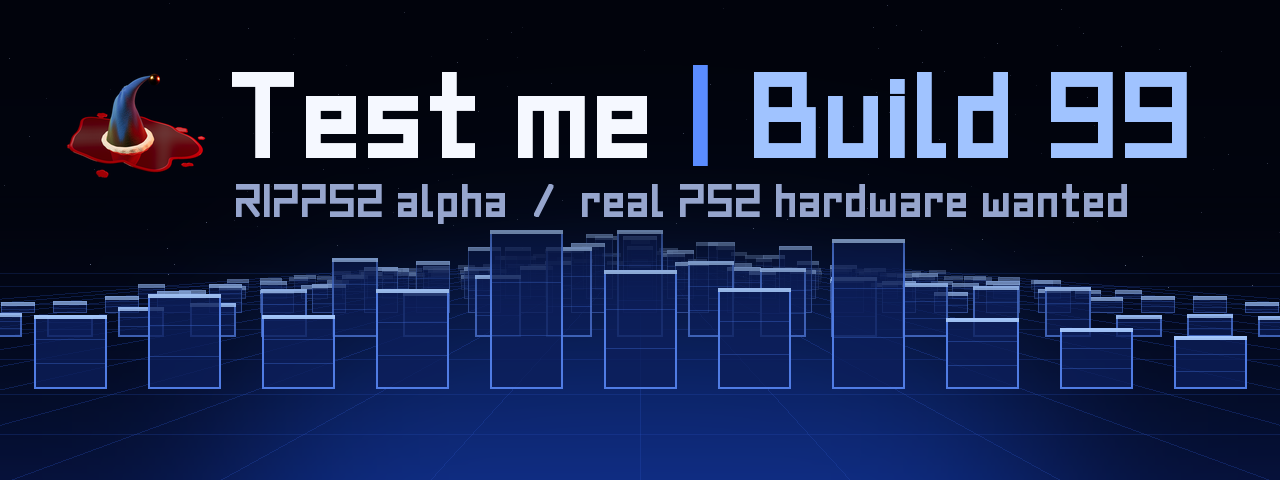
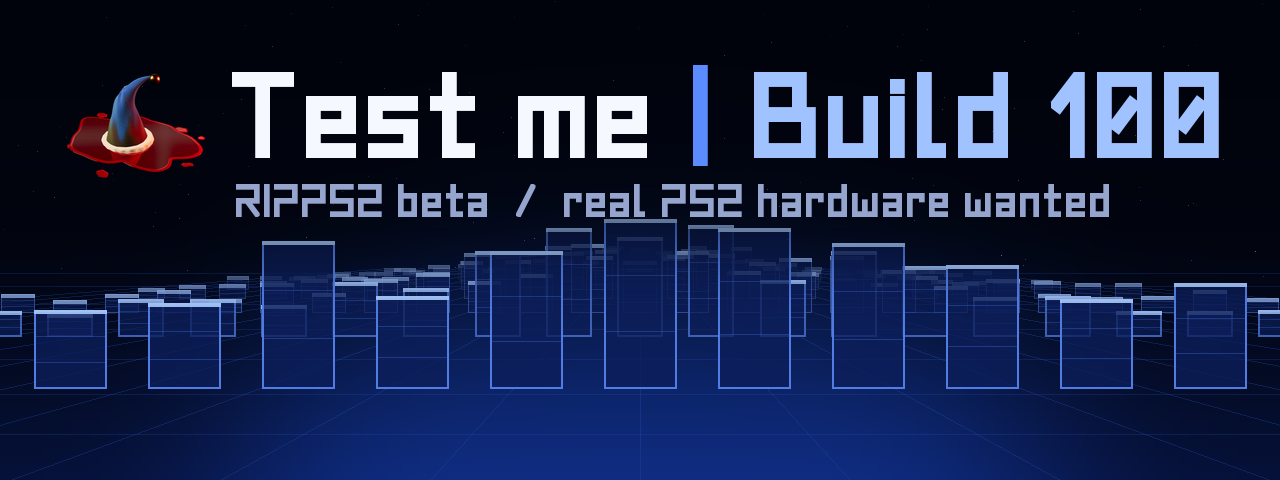
The beta's psx-place thread: README, the site's blue hat, the build 100 Discord notes
- README: the thread beside Every release and first in Tell us how it went; the
  Test me banner reads Build 100, RIPPS2 beta.
- Site: the RIPPS2 hat on the elf shelf is now a link to the thread. Pointed at
  or focused, it rings its bell as RIPPS2's memory card icon does in the PS2
  browser (make_hat_icon.py's keys, a 1.5 s loop) and the caption reads RIPPS2
  beta on psx-place.
- make_test_embed.py: the banner and footer say beta from build 100.
- notes/build100.md: the build 100 post; psxplace100.txt records the thread.

diff --git a/elfshelf.js b/elfshelf.js
@@ -4,9 +4,13 @@
 // middle one turns to follow the pointer (the nearer the pointer, the quicker it turns), and a touch on
 // either neighbour, or Left / Right, brings that one to the middle.
 //
+// One hat is a link (the `link` element, its data-hat naming which): while it stands in the middle the link
+// lies over it, and pointing at it (or focusing it) rings the bell as RIPPS2's memory card icon does in the
+// PS2 browser (make_hat_icon.py's keys: four rings dying away, then rest, a 1.5 s loop).
+//
 // Usage:
 //   import { createElfShelf } from "./elfshelf.js";
-//   const shelf = createElfShelf(canvas, { interactTarget: heroEl, caption: captionEl });
+//   const shelf = createElfShelf(canvas, { interactTarget: heroEl, caption: captionEl, link: anchorEl });
 //   shelf.show(true | false);  shelf.destroy();
 
 import * as THREE from "three";
@@ -25,7 +29,19 @@ const SLOT_X = 4.1;       // world units between the shelf's three places
 const SIDE_SCALE = 0.78;  // the neighbours stand a little smaller, as RIPFLOW's side covers do
 const SLIDE_S = 0.55;     // a step along the shelf
 
-export function createElfShelf(canvas, { interactTarget = canvas, caption = null } = {}) {
+// the memory card icon's ring, in the icon's frames (60 a second): the curl swings about the hat's own axis,
+// more toward the tip, by RING_SWING radians at full weight; the bell swings a little past the felt holding it
+const RING_KEYS = [[0, 0], [6, 1], [12, 0], [18, -1], [24, 0], [30, 0.6], [36, 0], [42, -0.35], [48, 0], [90, 0]];
+const RING_REST = 48, RING_LOOP = 90, RING_SWING = 0.75, BELL_SWING = Math.pow(1.3, 1.3);
+function ringAt(f) {
+  for (let i = 1; i < RING_KEYS.length; i++) {
+    const [t1, v1] = RING_KEYS[i];
+    if (f <= t1) { const [t0, v0] = RING_KEYS[i - 1], u = (f - t0) / (t1 - t0); return v0 + (v1 - v0) * u * u * (3 - 2 * u); }
+  }
+  return 0;
+}
+
+export function createElfShelf(canvas, { interactTarget = canvas, caption = null, link = null } = {}) {
   const renderer = new THREE.WebGLRenderer({ canvas, antialias: true, alpha: true });
   renderer.setPixelRatio(Math.min(window.devicePixelRatio || 1, 1.75));
   renderer.toneMapping = THREE.ACESFilmicToneMapping;
@@ -135,18 +151,23 @@ export function createElfShelf(canvas, { interactTarget = canvas, caption = null
   })();
 
   // the felt's flop as a vertex-shader bend about (R, uBendY): above uBendY the cone curls toward +x by
-  // uBend radians over its length, normals turned with it
+  // uBend radians over its length, normals turned with it; then the curl swings about the hat's axis by
+  // uSwing radians at the tip (the icon's ring), less toward the bend
   function bendFelt(mat, u) {
     mat.onBeforeCompile = (sh) => {
       Object.assign(sh.uniforms, u);
       sh.vertexShader = sh.vertexShader
-        .replace("#include <common>", "#include <common>\nuniform float uBend, uBendY, uLen;")
+        .replace("#include <common>", "#include <common>\nuniform float uBend, uBendY, uLen, uSwing;")
         .replace("#include <beginnormal_vertex>", `#include <beginnormal_vertex>
           if (position.y > uBendY) { float bR = (uLen - uBendY) / max(0.05, uBend); float th = (position.y - uBendY) / bR;
-            float c = cos(th), s = sin(th); objectNormal = vec3(c * objectNormal.x - s * objectNormal.y, s * objectNormal.x + c * objectNormal.y, objectNormal.z); }`)
+            float c = cos(th), s = sin(th); objectNormal = vec3(c * objectNormal.x - s * objectNormal.y, s * objectNormal.x + c * objectNormal.y, objectNormal.z);
+            float sw = uSwing * pow((position.y - uBendY) / (uLen - uBendY), 1.3); float cw = cos(sw), sn = sin(sw);
+            objectNormal = vec3(cw * objectNormal.x - sn * objectNormal.z, objectNormal.y, sn * objectNormal.x + cw * objectNormal.z); }`)
         .replace("#include <begin_vertex>", `#include <begin_vertex>
           if (position.y > uBendY) { float bR = (uLen - uBendY) / max(0.05, uBend); float th = (position.y - uBendY) / bR; float r = bR - position.x;
-            transformed.x = bR - r * cos(th); transformed.y = uBendY + r * sin(th); }`);
+            transformed.x = bR - r * cos(th); transformed.y = uBendY + r * sin(th);
+            float sw = uSwing * pow((position.y - uBendY) / (uLen - uBendY), 1.3); float cw = cos(sw), sn = sin(sw);
+            transformed.xz = vec2(cw * transformed.x - sn * transformed.z, sn * transformed.x + cw * transformed.z); }`);
     };
   }
 
@@ -182,7 +203,7 @@ export function createElfShelf(canvas, { interactTarget = canvas, caption = null
       p.setXYZ(i, v.x, v.y, v.z);
     }
     geo.computeVertexNormals();
-    const bendU = { uBend: { value: def.bend }, uBendY: { value: BEND_Y }, uLen: { value: L } };
+    const bendU = { uBend: { value: def.bend }, uBendY: { value: BEND_Y }, uLen: { value: L }, uSwing: { value: 0 } };
     const hat = new THREE.Group();
     const felt = new THREE.MeshPhysicalMaterial({ shadowSide: THREE.FrontSide, map: feltMap, bumpMap: feltBump, bumpScale: 0.5, roughness: 0.92, sheen: 0.6, sheenRoughness: 0.7,
       sheenColor: new THREE.Color(def.sheen), side: THREE.DoubleSide, envMap: env, envMapIntensity: 0.4 });
@@ -195,11 +216,29 @@ export function createElfShelf(canvas, { interactTarget = canvas, caption = null
     fur.rotation.x = Math.PI / 2; fur.position.y = 0.05; fur.castShadow = true; hat.add(fur);
     const bell = new THREE.Mesh(new THREE.SphereGeometry(0.15, 32, 20), bellMat);
     bell.castShadow = true; hat.add(bell);
-    const placeBell = (a) => { // at the bent tip, wherever the spring has the felt
-      const R = (L - BEND_Y) / Math.max(0.05, a);
-      bell.position.set(R - R * Math.cos(a) + 0.04, BEND_Y + R * Math.sin(a) - 0.1, 0);
+    const placeBell = (a, sw = 0) => { // at the bent tip, wherever the spring (and the ring) has the felt
+      const R = (L - BEND_Y) / Math.max(0.05, a), x = R - R * Math.cos(a) + 0.04, b = sw * BELL_SWING;
+      bell.position.set(x * Math.cos(b), BEND_Y + R * Math.sin(a) - 0.1, x * Math.sin(b));
     };
     placeBell(def.bend);
+    // the hat's outline in its own space, for the link laid over it: brim, bend, the curl and the bell
+    const rim = [], curl = [], marks = [];
+    for (let j = 0; j < 8; j++) { const a = (j / 8) * Math.PI * 2;
+      rim.push(new THREE.Vector3(Math.cos(a) * 0.8, -0.05, Math.sin(a) * 0.8), new THREE.Vector3(Math.cos(a) * 0.8, 0.22, Math.sin(a) * 0.8),
+        new THREE.Vector3(Math.cos(a) * 0.45, BEND_Y, Math.sin(a) * 0.45)); }
+    for (let j = 0; j < 16; j++) curl.push(new THREE.Vector3());
+    const outline = (a, sw) => {
+      const R = (L - BEND_Y) / Math.max(0.05, a);
+      for (let j = 0; j < 4; j++) {
+        const th = a * (j + 1) / 4, k = Math.pow((j + 1) / 4, 1.3) * sw, cx = R - R * Math.cos(th), cy = BEND_Y + R * Math.sin(th);
+        for (let q = 0; q < 4; q++) {
+          const x = cx + (q & 1 ? 0.3 : -0.3), z = q & 2 ? 0.3 : -0.3;
+          curl[j * 4 + q].set(x * Math.cos(k) - z * Math.sin(k), cy + (q & 2 ? 0.3 : -0.3), x * Math.sin(k) + z * Math.cos(k));
+        }
+      }
+      marks.length = 0; marks.push(...rim, ...curl, bell.position);
+      return marks;
+    };
 
     // the hat stands in its own pool, sunk to half the fur; the pool keeps still while the hat turns
     const holder = new THREE.Group();
@@ -217,7 +256,7 @@ export function createElfShelf(canvas, { interactTarget = canvas, caption = null
     }
     holder.add(spin);
     // the bell's spring: bend (rad) and its speed
-    holder.userData = { spin, hat, yaw: 0, bendU, placeBell, base: def.bend, bend: def.bend, bendV: 0 };
+    holder.userData = { spin, hat, yaw: 0, bendU, placeBell, outline, base: def.bend, bend: def.bend, bendV: 0 };
     holder.traverse((o) => { if (o.isMesh) o.userData.holder = holder; });
     return holder;
   }
@@ -242,10 +281,51 @@ export function createElfShelf(canvas, { interactTarget = canvas, caption = null
   function step(dir) { target += dir; if (caption) setCaption(); }
   function setCaption() {
     const k = ((Math.round(target) % n) + n) % n;
-    caption.textContent = HATS[k].name;
+    sayCaption(HATS[k].name);
+  }
+  function sayCaption(text) {
+    caption.textContent = text;
     caption.animate([{ opacity: 0, transform: "translateY(6px)" }, { opacity: 1, transform: "none" }], { duration: 380, easing: "cubic-bezier(.2,.7,.3,1)" });
   }
   if (caption) setCaption();
+
+  // ---- the linked hat: pointed at or focused, it rings; a ring always plays out to its rest ----
+  const linkIdx = link ? HATS.findIndex((h) => h.name === (link.dataset.hat || "RIPPS2")) : -1;
+  let linkOn = false, ringHover = false, ringF = RING_REST;
+  const ringStart = () => {
+    if (!ringHover && ringF >= RING_REST) ringF = 0;
+    if (!ringHover && caption && link.dataset.caption) sayCaption(link.dataset.caption);
+    ringHover = true;
+  };
+  const ringStop = () => { if (ringHover && caption) setCaption(); ringHover = false; };
+  if (linkIdx >= 0) {
+    link.style.display = "none";
+    link.addEventListener("pointerenter", ringStart);
+    link.addEventListener("pointerleave", ringStop);
+    link.addEventListener("focus", ringStart);
+    link.addEventListener("blur", ringStop);
+  }
+  const lp = new THREE.Vector3();
+  function placeLink() {
+    const h = hats[linkIdx], on = visible && Math.abs(wrap(linkIdx - pos)) < 0.3;
+    if (on !== linkOn) {
+      linkOn = on;
+      link.style.display = on ? "block" : "none";
+      if (!on) { if (document.activeElement === link) link.blur(); ringStop(); }
+    }
+    if (!on) return;
+    h.updateMatrixWorld(true);
+    let x0 = Infinity, y0 = Infinity, x1 = -Infinity, y1 = -Infinity;
+    for (const p of h.userData.outline(h.userData.bend, h.userData.bendU.uSwing.value)) {
+      lp.copy(p); h.userData.hat.localToWorld(lp).project(camera);
+      x0 = Math.min(x0, lp.x); x1 = Math.max(x1, lp.x); y0 = Math.min(y0, lp.y); y1 = Math.max(y1, lp.y);
+    }
+    const w = canvas.clientWidth, ht = canvas.clientHeight;
+    const left = (x0 + 1) / 2 * w, top = (1 - y1) / 2 * ht;
+    link.style.transform = `translate(${left.toFixed(1)}px, ${top.toFixed(1)}px)`;
+    link.style.width = ((x1 - x0) / 2 * w).toFixed(1) + "px";
+    link.style.height = ((y1 - y0) / 2 * ht).toFixed(1) + "px";
+  }
 
   // ---- pointer ----
   const pointer = new THREE.Vector2(0, 0);
@@ -259,6 +339,7 @@ export function createElfShelf(canvas, { interactTarget = canvas, caption = null
   const onLeave = () => { pointerIn = false; };
   const onDown = (e) => {
     if (!visible) return;
+    if (linkOn && e.target === link) { e.stopImmediatePropagation(); hats[linkIdx].userData.bendV -= 4.5; return; } // the link opens on click
     toNdc(e);
     ray.setFromCamera(pointer, camera);
     const hit = ray.intersectObjects(hats, true)[0];
@@ -310,6 +391,8 @@ export function createElfShelf(canvas, { interactTarget = canvas, caption = null
     const dt = Math.min(0.05, (now - last) / 1000); last = now;
     const t = now / 1000;
     pos += (target - pos) * (1 - Math.exp(-dt / (SLIDE_S / 4)));
+    if (ringHover) ringF = (ringF + dt * 60) % RING_LOOP;
+    else if (ringF < RING_REST) ringF = Math.min(RING_REST, ringF + dt * 60);
 
     hats.forEach((h, k) => {
       const off = wrap(k - pos), a = Math.abs(off);
@@ -339,9 +422,12 @@ export function createElfShelf(canvas, { interactTarget = canvas, caption = null
       ud.bendV += (-(ud.bend - ud.bendGoal) * 42 - ud.bendV * 5.5 + Math.abs(yawV) * 0.9) * dt;
       ud.bend = Math.max(0.15, Math.min(2.4, ud.bend + ud.bendV * dt));
       ud.bendU.uBend.value = ud.bend;
-      ud.placeBell(ud.bend);
+      const sw = k === linkIdx ? RING_SWING * ringAt(ringF) : 0;
+      ud.bendU.uSwing.value = sw;
+      ud.placeBell(ud.bend, sw);
       ud.spin.rotation.y = ud.yaw;
     });
+    if (linkIdx >= 0) placeLink();
     if (visible) renderer.render(scene, camera);
   }
   raf = requestAnimationFrame(frame);
@@ -359,6 +445,10 @@ export function createElfShelf(canvas, { interactTarget = canvas, caption = null
       interactTarget.removeEventListener("pointerleave", onLeave);
       interactTarget.removeEventListener("pointerdown", onDown, { capture: true });
       window.removeEventListener("keydown", onKey);
+      if (linkIdx >= 0) {
+        link.removeEventListener("pointerenter", ringStart); link.removeEventListener("pointerleave", ringStop);
+        link.removeEventListener("focus", ringStart); link.removeEventListener("blur", ringStop);
+      }
       renderer.dispose();
     },
   };

diff --git a/index.html b/index.html
@@ -43,6 +43,10 @@
     font-size: clamp(1rem, 2.4vw, 1.7rem); color: #f4f8ff; opacity: 0; transition: opacity .5s ease;
     text-shadow: 0 0 6px rgba(200, 222, 255, .8), 0 0 22px rgba(110, 160, 255, .6); }
   .shelf-caption[data-shelf="on"] { opacity: 1; }
+  /* The blue RIPPS2 hat is a link to the beta's psx-place thread: elfshelf.js lays it over the hat */
+  .shelf-link { position: absolute; left: 0; top: 0; z-index: 2; display: none; cursor: pointer; border-radius: 18px;
+    outline: none; -webkit-tap-highlight-color: transparent; }
+  .shelf-link:focus-visible { box-shadow: 0 0 0 2px rgba(170, 205, 255, .75), 0 0 26px rgba(110, 160, 255, .45); }
   .hero[data-tab="storage"] .console { opacity: 0; transition: opacity .5s ease; }
   .hero[data-tab="launch"] .console { opacity: 1; transition: opacity .5s ease; }
 
@@ -64,8 +68,11 @@
 
 <section class="hero" id="hero">
   <canvas id="pillars" aria-hidden="true"></canvas>
-  <canvas class="shelf" id="shelf" aria-label="The elf shelf: touch a hat beside the middle one, or press Left / Right"></canvas>
+  <canvas class="shelf" id="shelf" aria-label="The elf shelf: touch a hat beside the middle one, or press Left / Right; the blue RIPPS2 hat opens the beta's psx-place thread"></canvas>
   <div class="shelf-caption" id="shelf-caption" aria-live="polite"></div>
+  <a class="shelf-link" id="shelf-link" href="https://www.psx-place.com/threads/ripps2-a-ps2-front-end-in-one-elf-launch-disc-storage-memory-files.51316/"
+     target="_blank" rel="noopener" data-hat="RIPPS2" data-caption="RIPPS2 beta on psx-place"
+     aria-label="RIPPS2 beta: the psx-place thread"></a>
   <div class="hero-content">
     <img class="console" src="assets/console.png" alt="Console" onerror="this.remove()">
   </div>
@@ -108,7 +115,8 @@
   if (arrived === "launch") spark();
 
   try {
-    shelf = createElfShelf(document.getElementById("shelf"), { interactTarget: hero, caption: document.getElementById("shelf-caption") });
+    shelf = createElfShelf(document.getElementById("shelf"), { interactTarget: hero, caption: document.getElementById("shelf-caption"),
+      link: document.getElementById("shelf-link") });
   } catch (e) { console.warn("elf shelf:", e); }
   showTab(arrived === "launch" ? "launch" : current);
 

diff --git a/tools/discord/make_test_embed.py b/tools/discord/make_test_embed.py
@@ -133,8 +133,13 @@ def banner(build, w=1280, h=480):
     tw = d.textlength(title, font=big)
     d.text((232 + tw + 34, 58), '|', font=big, fill=(90, 140, 255))
     d.text((232 + tw + 34 + d.textlength('|', font=big) + 34, 58), 'Build %d' % build, font=big, fill=(160, 195, 255))
-    d.text((236, 178), 'RIPPS2 alpha  /  real PS2 hardware wanted', font=small, fill=(150, 165, 205))
+    d.text((236, 178), 'RIPPS2 %s  /  real PS2 hardware wanted' % stage(build), font=small, fill=(150, 165, 205))
     return im.convert('RGB')
+
+
+def stage(build):
+    """Alpha up to build 99; build 100 (v0.1.0) is the first beta."""
+    return 'beta' if build >= 100 else 'alpha'
 
 
 def parse_notes(path):
@@ -187,7 +192,7 @@ def payload(build, notes, release, videos=()):
         body['fields'].append({'name': 'What to test on your PS2' + (' (%d to %d)' % (start, n - 1) if start > 1 else ''), 'value': chunk, 'inline': False})
     if report:
         body['fields'].append({'name': 'Tell us', 'value': report[:1024], 'inline': False})
-    body['footer'] = {'text': 'RIPPS2 build %d  |  alpha: keep your usual loader close by' % build, 'icon_url': 'attachment://ripps2-icon.png'}
+    body['footer'] = {'text': 'RIPPS2 build %d  |  %s: keep your usual loader close by' % (build, stage(build)), 'icon_url': 'attachment://ripps2-icon.png'}
     # videos go in the message text, where Discord turns each link into a player above the card
     content = '**Watch build %d:** ' % build + '  |  '.join(videos) if videos else ''
     return {'content': content, 'embeds': [head, body], 'allowed_mentions': {'parse': []},

diff --git a/README.md b/README.md
@@ -1,4 +1,4 @@
-<p align="center"><img src="media/ripps2-test-me.png" alt="RIPPS2: Test me, build 99, the dead elf in its blue hat over the towers"></p>
+<p align="center"><img src="media/ripps2-test-me.png" alt="RIPPS2: Test me, build 100, the beta, the dead elf in its blue hat over the towers"></p>
 
 # RIPPS2
 
@@ -6,9 +6,9 @@
 > **RIP PS2, the ELF killer.** ELF-sufficient, never ELF-destructive: your other ELFs stay safe on the [shelf](https://akilluminati47.github.io/RIPPS2/) (nothing is deleted unless you ask), they just get a well-earned rest.
 > 1. **[Download RIPPS2.elf](https://github.com/akilluminati47/RIPPS2/releases/latest/download/RIPPS2.elf)** (always the newest release) (one file, about 3 MB), and the **[theme pack](https://github.com/akilluminati47/RIPPS2-themes/releases/latest)** if you like (Adapt, Adapt Rx; RIPGRID and RIPFLOW are built in).
 > 2. Copy it to a USB stick or memory card, and launch it from FreeMcBoot, PS2BBL, wLaunchELF or whatever you already use to start homebrew. In PCSX2: **System > Start File** and pick `RIPPS2.elf`.
-> 3. Tell us how it went: [open an issue](https://github.com/akilluminati47/RIPPS2/issues) or find **#RIPPS2** on the developers' Discord, [discord.gg/ggkCDWqhE](https://discord.gg/ggkCDWqhE) (invite good for October 2026).
+> 3. Tell us how it went: [the psx-place thread](https://www.psx-place.com/threads/ripps2-a-ps2-front-end-in-one-elf-launch-disc-storage-memory-files.51316/), [an issue](https://github.com/akilluminati47/RIPPS2/issues), or **#RIPPS2** on the developers' Discord, [discord.gg/ggkCDWqhE](https://discord.gg/ggkCDWqhE) (invite good for October 2026).
 >
-> [What's new in build 100](https://github.com/akilluminati47/RIPPS2/releases/tag/v0.1.0-beta) | [Changelog](CHANGELOG.md) | **[Watch the beta reel](https://youtu.be/LPjdK_E1jjM)** (9:45, every chapter in its description; earlier: [the build 99 Short](https://www.youtube.com/shorts/Ov5iA-tMcI8), [build 88's](https://www.youtube.com/shorts/Sqprz22tdtg), [the build 83 reel](https://youtu.be/A27N9s6tumk) and [its Short](https://youtube.com/shorts/4QBe5UO2KxM)) | [Every release](https://github.com/akilluminati47/RIPPS2/releases)<br>
+> [What's new in build 100](https://github.com/akilluminati47/RIPPS2/releases/tag/v0.1.0-beta) | [Changelog](CHANGELOG.md) | **[Watch the beta reel](https://youtu.be/LPjdK_E1jjM)** (9:45, every chapter in its description; earlier: [the build 99 Short](https://www.youtube.com/shorts/Ov5iA-tMcI8), [build 88's](https://www.youtube.com/shorts/Sqprz22tdtg), [the build 83 reel](https://youtu.be/A27N9s6tumk) and [its Short](https://youtube.com/shorts/4QBe5UO2KxM)) | [Every release](https://github.com/akilluminati47/RIPPS2/releases) | [Talk about it on psx-place](https://www.psx-place.com/threads/ripps2-a-ps2-front-end-in-one-elf-launch-disc-storage-memory-files.51316/)<br>
 > [Theme RIPPS2](https://github.com/akilluminati47/RIPPS2-themes) (no rebuild, agent friendly) | [Fill your AUDIO folder](#the-sound-ripps2-was-made-with) with RIPPS2 Audio Studio
 
 RIPPS2 is a PS2 front end in a single `.elf`: a teardown and rebuild of [RiptOPL](https://github.com/NathanNeurotic/Open-PS2-Loader) (the Open PS2 Loader fork) with its own look, launchers, file browser and save tools. Glass towers stand behind your games and orbit formations behind your files, all drawn live by the PS2.

diff --git a/tools/discord/notes/build100.md b/tools/discord/notes/build100.md
@@ -1,0 +1,29 @@
+# Build 100 is the first beta: RIPPS2 v0.1.0. Clean sound from your own console, the menu music ripped on its own, and RIPPS2's own memory card save. The beta reel and a psx-place thread are up.
+
+## Watch and talk
+- **[The beta reel](https://youtu.be/LPjdK_E1jjM)** (9:45, every chapter in the description)
+- **[The psx-place thread](https://www.psx-place.com/threads/ripps2-a-ps2-front-end-in-one-elf-launch-disc-storage-memory-files.51316/)**: RIPPS2 goes public there
+- [Download the latest RIPPS2.elf](https://github.com/akilluminati47/RIPPS2/releases/latest/download/RIPPS2.elf) (this link always gets the newest build) and [the theme pack](https://github.com/akilluminati47/RIPPS2-themes/releases/latest/download/RIPPS2-themes.zip)
+
+## Sound, cleaned up
+- The ripped boot and launch music no longer pop (three instruments were misread as the SPU2's noise). **Rip again** (Audio settings > BIOS Sounds) to get the clean ones.
+- The beep after saving settings is gone; every press makes one sound; nothing sounds without a press (no sound when art loads or a drive is scanned). Adapt and Adapt Rx ship no sounds now, so your rips play.
+
+## The menu music, ripped on its own
+- **Audio settings > BIOS Music > RIP**: your console's ambient menu piece (5:31) as a WAV, its size (15.1 MB) shown first, beside RIPPS2 or in OPL's AUDIO folder on a drive. The Music list reads OPL's AUDIO folder on every started drive too.
+
+## RIPPS2's own save, and more
+- Settings live in **mc0:/RIPPS2** (the hat, the settings, nothing else), apart from any other OPL.
+- Replace is a clean erase, copy and check; an ISO or ZSO starts wherever it is; the text editor reads in RIPPS2 Sleek; POPSTARTER from USB remembers your drive's format; cases flip from the side you push; the menus read in one clear face.
+
+## Test list
+- **The beep**: change something in Interface (a new theme), back out, save. Any tone after the save message?
+- **Clean rips**: rip BIOS Sounds again, reboot, launch a game. Do the boot and launch sounds play without pops?
+- **One press, one sound**: open menus and message boxes, save settings. Do you ever hear two sounds for one press, or a sound when cover art appears?
+- **Your card**: after a save, look in the PS2 browser. Is there a RIPPS2 save with the hat ringing its bell, and does a reboot keep your settings?
+- **BIOS Music**: rip it to a USB drive or OPL's AUDIO folder, then pick Menu in Audio settings. Does it play and loop?
+- **ISO anywhere**: start an ISO from any folder in Memory Files.
+- **POPSTARTER from USB**: does it stop asking FAT32 or exFAT on the second game?
+
+## Report
+Post in the [psx-place thread](https://www.psx-place.com/threads/ripps2-a-ps2-front-end-in-one-elf-launch-disc-storage-memory-files.51316/) or here with your **console model**, your drives, and a **photo** of anything odd.
